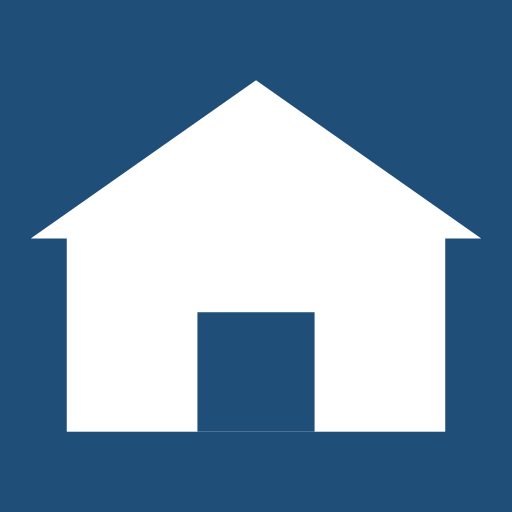
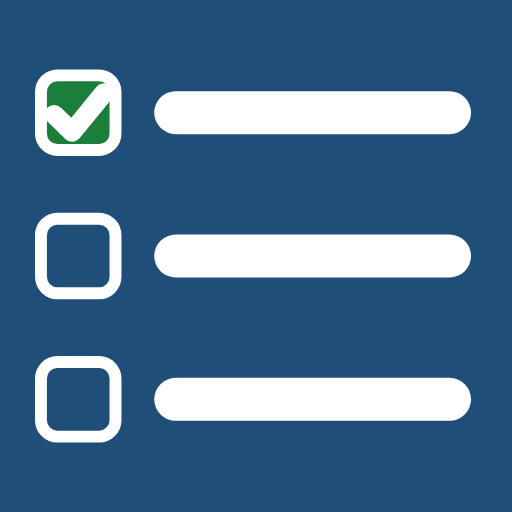
feat: l'icône dit ce que fait l'app — une liste qu'on coche
La maison ne disait rien de MaxHome : sur un écran d'accueil, elle ressemblait à n'importe
quelle app de foyer. Un essai en panier a été écarté après l'avoir regardé — son anse pleine
se lisait comme un sac à main, et les barres internes comme des fentes.

Reste ce que l'app fait vraiment : cocher ce qui est fait, à la maison comme au magasin.
Trois lignes, la première cochée en vert.

Jugée à 48 px, la taille où elle sera vue : les cases, la coche et les lignes restent
distinctes, et la découpe ronde d'Android n'ampute rien.

diff --git a/frontend/sw-version.js b/frontend/sw-version.js
@@ -3,4 +3,4 @@
 // contenu de tous les fichiers de frontend/sw-precache.js : change dès qu'un
 // seul octet de la coquille change, ce qui force le service worker à recréer
 // son cache. Chargé par sw.js via importScripts (pas de module ESM).
-self.SW_VERSION = "feb7e74f6d3a";
+self.SW_VERSION = "d8a0e8e68080";

diff --git a/frontend/sw-precache.js b/frontend/sw-precache.js
@@ -23,8 +23,8 @@ self.SW_PRECACHE = [
   "icones/icone-apple-180.png",
   "icones/icone-maskable-192.png",
   "icones/icone-maskable-512.png",
-  "icones/maison-maskable.svg",
-  "icones/maison.svg",
+  "icones/liste-maskable.svg",
+  "icones/liste.svg",
   "index.html",
   "manifest.webmanifest",
   "modules.js",
